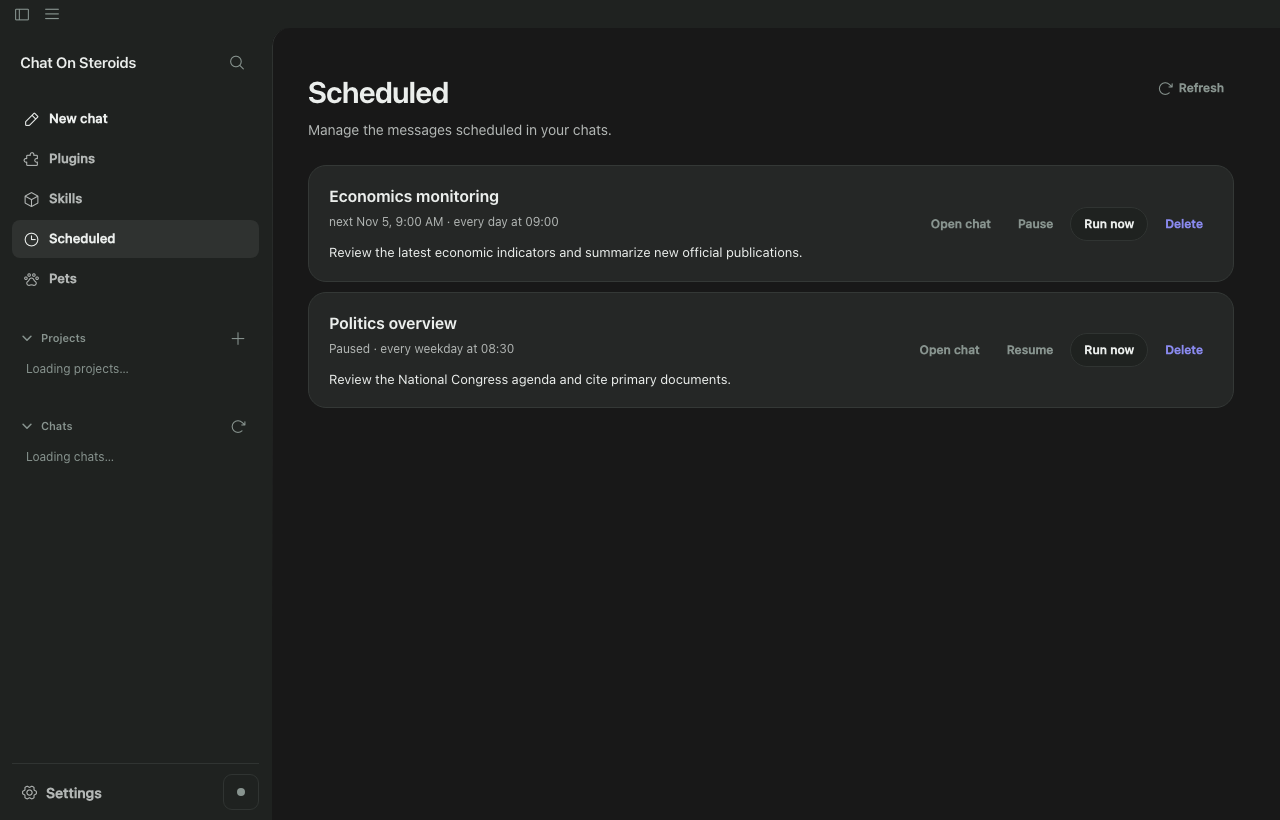
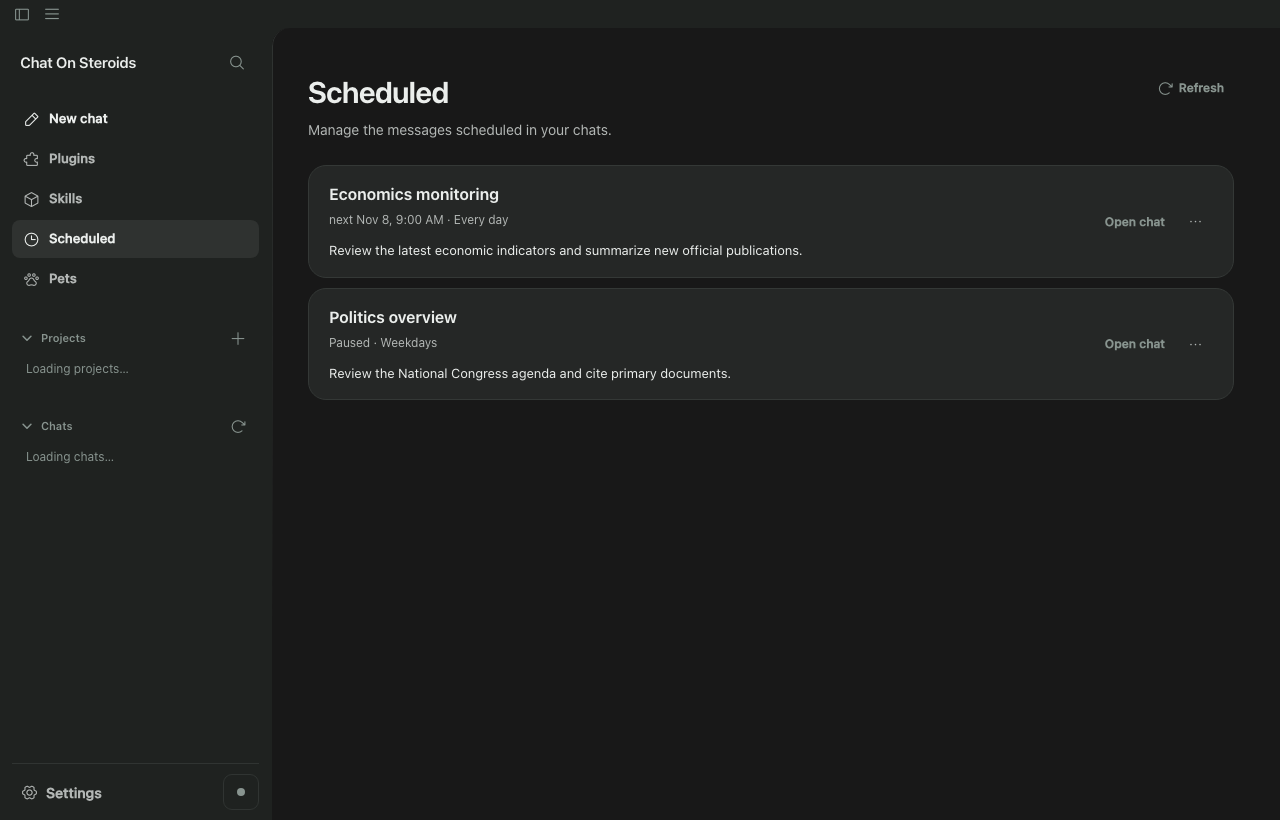
Polish Scheduled list compact actions and confirmation UX

diff --git a/src/renderer/scheduled.ts b/src/renderer/scheduled.ts
@@ -1,5 +1,6 @@
 import { currentLanguage, onLanguageChange, t, tn } from './i18n.js';
 import type { ScheduleRepeat, ScheduledRunListItem } from '../shared/schedule.js';
+import { initCardMenuDismissal } from './dom.js';
 
 type Reply<T> = { ok: true; data: T } | { ok: false; error: string };
 
@@ -41,16 +42,16 @@ function messagePreview(text: string): string {
 
 function repeatText(repeat: ScheduleRepeat): string {
   if (repeat.kind === 'hours') return repeat.every === 1 ? t('every hour') : tn('every {0} hour', 'every {0} hours', repeat.every);
-  const [hour, minute] = repeat.at.split(':').map(Number) as [number, number];
-  const at = new Date(2024, 0, 1, hour, minute).toLocaleTimeString(currentLanguage(), { hour: '2-digit', minute: '2-digit' });
-  if (repeat.kind === 'daily') return t('every day at {0}', [at]);
-  if (repeat.kind === 'weekdays') return t('every weekday at {0}', [at]);
+  // The next-run field already contains the clock time. Do not repeat it in recurrence.
+  if (repeat.kind === 'daily') return t('Every day');
+  if (repeat.kind === 'weekdays') return t('Weekdays');
   const weekday = new Intl.DateTimeFormat(currentLanguage(), { weekday: 'long' }).format(new Date(2024, 0, 7 + repeat.day));
-  return t('every {0} at {1}', [weekday, at]);
+  return `${t('Every week')} · ${weekday}`;
 }
 
 /** A projection of scheduled-runs; this view never stores tasks or sends messages itself. */
 export function initScheduled(controller: ScheduledController): { refresh: () => Promise<void> } {
+  initCardMenuDismissal();
   const list = document.getElementById('scheduledList')!;
   const status = document.getElementById('scheduledStatus')!;
   const description = document.getElementById('scheduledDescription')!;
@@ -84,25 +85,53 @@ export function initScheduled(controller: ScheduledController): { refresh: () =>
 
   type ActionFocus = { sessionId: string; action: string; row: number };
   const focusedAction = (): ActionFocus | null => {
-    const active = document.activeElement as HTMLButtonElement | null;
+    const active = document.activeElement as HTMLElement | null;
     if (!active?.dataset.scheduledAction || !active.dataset.sessionId || !list.contains(active)) return null;
     const row = [...list.querySelectorAll<HTMLElement>('.scheduled-index-row')].indexOf(active.closest<HTMLElement>('.scheduled-index-row')!);
     return { sessionId: active.dataset.sessionId, action: active.dataset.scheduledAction, row };
   };
   const restoreFocus = (saved: ActionFocus | null): void => {
     if (!saved) return;
-    const buttons = [...list.querySelectorAll<HTMLButtonElement>('button[data-scheduled-action]')];
-    const exact = buttons.find(node => node.dataset.sessionId === saved.sessionId && node.dataset.scheduledAction === saved.action);
+    const buttons = [...list.querySelectorAll<HTMLElement>('[data-scheduled-action]')];
+    // A closed overflow menu cannot receive focus; return to its visible summary instead.
+    const action = saved.action === 'open' ? 'open' : 'menu';
+    const exact = buttons.find(node => node.dataset.sessionId === saved.sessionId && node.dataset.scheduledAction === action);
     if (exact) { exact.focus(); return; }
     const rows = [...list.querySelectorAll<HTMLElement>('.scheduled-index-row')];
     const row = rows[Math.min(Math.max(saved.row, 0), rows.length - 1)];
-    (row?.querySelector<HTMLButtonElement>('button[data-scheduled-action]') ?? refreshButton).focus();
+    (row?.querySelector<HTMLElement>('[data-scheduled-action="open"]') ?? refreshButton).focus();
   };
   const applyDisabled = (): void => {
     for (const action of list.querySelectorAll<HTMLButtonElement>('button[data-scheduled-action]'))
       action.disabled = busy || action.dataset.scheduledDisabled === 'true';
     refreshButton.disabled = busy;
     refreshButton.setAttribute('aria-busy', String(refreshInFlight !== null));
+  };
+
+  const confirmDelete = (record: ScheduledRunListItem, returnFocus: HTMLElement): void => {
+    const dialog = element('dialog', 'plugin-dialog pet-delete-dialog');
+    const title = element('h2', '', t('Delete the schedule for {0}?', [record.sessionTitle || t('Untitled chat')]));
+    title.id = 'scheduledDeleteTitle';
+    dialog.setAttribute('aria-labelledby', title.id);
+    const head = element('div', 'plugin-dialog-head');
+    head.append(title);
+    const body = element('div', 'plugin-dialog-body');
+    const actions = element('div', 'pet-delete-actions');
+    const dismiss = (): void => {
+      if (typeof dialog.close === 'function') dialog.close();
+      else { dialog.remove(); if (returnFocus.isConnected) returnFocus.focus(); }
+    };
+    const cancel = button(t('Cancel'), dismiss, 'btn btn-solid pet-delete-cancel');
+    const remove = button(t('Delete'), () => {
+      dismiss();
+      if (returnFocus.isConnected) returnFocus.focus();
+      void mutate(() => controller.delete(record.sessionId));
+    }, 'btn plugin-destructive pet-delete-confirm');
+    actions.append(cancel, remove); body.append(actions); dialog.append(head, body);
+    dialog.addEventListener('close', () => { dialog.remove(); if (returnFocus.isConnected) returnFocus.focus(); });
+    document.body.append(dialog);
+    if (typeof dialog.showModal === 'function') dialog.showModal(); else dialog.setAttribute('open', '');
+    cancel.focus();
   };
 
   const render = (): void => {
@@ -140,17 +169,31 @@ export function initScheduled(controller: ScheduledController): { refresh: () =>
         node.dataset.scheduledDisabled = String(unavailable);
         return node;
       };
-      actions.append(
-        action(t('Open chat'), 'open', () => controller.openChat(record.sessionId)),
+      const menu = element('details', 'plugin-menu scheduled-index-menu');
+      const summary = element('summary');
+      summary.dataset.scheduledAction = 'menu';
+      summary.dataset.sessionId = record.sessionId;
+      summary.setAttribute('aria-label', t('Actions for {0}', [record.sessionTitle || t('Untitled chat')]));
+      const dots = element('i', 'ico ph ph-dots-three');
+      dots.setAttribute('aria-hidden', 'true');
+      summary.append(dots);
+      menu.addEventListener('keydown', event => {
+        // Keep focus on a visible control when Escape dismisses a keyboard-opened menu.
+        if (event.key === 'Escape' && menu.open) {
+          menu.open = false;
+          summary.focus();
+          event.stopPropagation();
+        }
+      });
+      const options = element('div', 'plugin-menu-actions');
+      options.append(
         action(record.paused ? t('Resume') : t('Pause'), 'pause', () => void mutate(() => controller.pause(record.sessionId, !record.paused))),
         action(t('Run now'), 'run-now', () => void mutate(() => controller.runNow(record.sessionId), queued => queued ? 'Queued' : 'Skipped'),
-          'btn btn-solid', record.retryDueAt !== undefined || record.deliveryBlock !== undefined),
-        action(t('Delete'), 'delete', () => {
-          if (window.confirm(t('Delete the schedule for {0}?', [record.sessionTitle || t('Untitled chat')]))) {
-            void mutate(() => controller.delete(record.sessionId));
-          }
-        }, 'btn scheduled-index-delete')
+          'btn', record.retryDueAt !== undefined || record.deliveryBlock !== undefined),
+        action(t('Delete'), 'delete', () => confirmDelete(record, summary), 'btn plugin-destructive')
       );
+      menu.append(summary, options);
+      actions.append(action(t('Open chat'), 'open', () => controller.openChat(record.sessionId)), menu);
       row.append(body, actions);
       list.append(row);
     }

diff --git a/test/renderer-scheduled.test.ts b/test/renderer-scheduled.test.ts
@@ -42,6 +42,11 @@ it('projects different chats from one schedule list and opens the selected chat'
   expect(rows[0]?.textContent).toContain('Economics monitoring');
   expect(rows[0]?.textContent).toContain('Review prices and publish a report');
   expect(rows[1]?.textContent).toContain('Paused');
+  expect(rows[0]?.querySelectorAll('.scheduled-index-actions > button')).toHaveLength(1);
+  expect(rows[0]?.querySelector('.scheduled-index-menu > summary')?.getAttribute('aria-label')).toBe('Actions for Economics monitoring');
+  expect(rows[0]?.querySelector('.scheduled-index-message')).toBeTruthy();
+  expect(rows[0]?.querySelector('.scheduled-index-meta')?.textContent).toContain('Every day');
+  expect(rows[0]?.querySelector('.scheduled-index-meta')?.textContent).not.toContain('every day at');
   (rows[1]?.querySelector('button') as HTMLButtonElement).click();
   expect(calls.openChat).toHaveBeenCalledExactlyOnceWith(idB);
 });
@@ -66,7 +71,7 @@ it('shows blocked delivery receipts and disables Run now until the outbox is def
     .find(button => button.textContent === 'Run now')?.disabled)).toBe(true);
 });
 
-it('reuses pause, runNow and delete actions for the exact original chat; deletion asks first', async () => {
+it('keeps only Open chat visible, uses the overflow menu, and confirms deletion in an accessible dialog', async () => {
   const { initScheduled } = await import('../src/renderer/scheduled.js');
   const calls = {
     list: vi.fn(async () => ok([schedule(idA)])),
@@ -75,9 +80,20 @@ it('reuses pause, runNow and delete actions for the exact original chat; deletio
     delete: vi.fn(async () => ok(true)),
     openChat: vi.fn()
   };
-  const confirm = vi.fn(() => false);
+  const confirm = vi.fn(() => true);
   dom.window.confirm = confirm;
   await initScheduled(calls).refresh();
+  const menu = document.querySelector<HTMLDetailsElement>('.scheduled-index-menu')!;
+  const summary = menu.querySelector('summary')!;
+  expect(menu.open).toBe(false);
+  summary.focus(); summary.click();
+  expect(menu.open).toBe(true);
+  const pauseInMenu = [...menu.querySelectorAll<HTMLButtonElement>('button')].find(node => node.textContent === 'Pause')!;
+  pauseInMenu.focus();
+  pauseInMenu.dispatchEvent(new dom.window.KeyboardEvent('keydown', { key: 'Escape', bubbles: true }));
+  expect(menu.open).toBe(false);
+  expect(document.activeElement).toBe(summary);
+  summary.click();
   const click = async (label: string) => {
     const button = [...document.querySelectorAll<HTMLButtonElement>('.scheduled-index-row button')]
       .find(node => node.textContent === label);
@@ -90,10 +106,19 @@ it('reuses pause, runNow and delete actions for the exact original chat; deletio
   await click('Run now');
   expect(calls.runNow).toHaveBeenCalledExactlyOnceWith(idA);
   await click('Delete');
-  expect(confirm).toHaveBeenCalledOnce();
+  expect(confirm).not.toHaveBeenCalled();
   expect(calls.delete).not.toHaveBeenCalled();
-  confirm.mockReturnValue(true);
+  const dialog = document.querySelector<HTMLDialogElement>('dialog[aria-labelledby="scheduledDeleteTitle"]')!;
+  expect(dialog).not.toBeNull();
+  expect(dialog.querySelector('h2')?.textContent).toContain('Economics monitoring');
+  expect(document.activeElement?.textContent).toBe('Cancel');
+  dialog.querySelector<HTMLButtonElement>('.pet-delete-cancel')!.click();
+  expect(document.querySelector('dialog[aria-labelledby="scheduledDeleteTitle"]')).toBeNull();
+  expect(document.activeElement).toBe(document.querySelector('.scheduled-index-menu > summary'));
+  expect(calls.delete).not.toHaveBeenCalled();
   await click('Delete');
+  document.querySelector<HTMLButtonElement>('.pet-delete-confirm')!.click();
+  await settle();
   expect(calls.delete).toHaveBeenCalledExactlyOnceWith(idA);
 });
 
@@ -295,7 +320,7 @@ it('keeps unchanged rows mounted, restores action focus after a changed row, and
   const runNow = [...original.querySelectorAll<HTMLButtonElement>('button')].find(node => node.textContent === 'Run now')!;
   runNow.focus(); runNow.click(); await settle();
   expect(document.querySelector('.scheduled-index-row')).toBe(original);
-  expect(document.activeElement).toBe(runNow);
+  expect((document.activeElement as HTMLElement).dataset.scheduledAction).toBe('menu');
   expect(document.getElementById('scheduledStatus')?.textContent).toBe('Queued');
   await view.refresh();
   expect(document.getElementById('scheduledStatus')?.textContent).toBe('Queued');
@@ -305,7 +330,8 @@ it('keeps unchanged rows mounted, restores action focus after a changed row, and
   const pause = [...original.querySelectorAll<HTMLButtonElement>('button')].find(node => node.textContent === 'Pause')!;
   pause.focus(); pause.click(); await settle();
   const resume = [...document.querySelectorAll<HTMLButtonElement>('.scheduled-index-row button')].find(node => node.textContent === 'Resume')!;
-  expect(document.activeElement).toBe(resume);
+  expect(resume).toBeDefined();
+  expect((document.activeElement as HTMLElement).dataset.scheduledAction).toBe('menu');
 });
 
 it('preserves keyboard focus when a background refresh changes a different schedule row', async () => {
@@ -329,7 +355,7 @@ it('preserves keyboard focus when a background refresh changes a different sched
   await view.refresh();
   const restored = document.activeElement as HTMLButtonElement;
   expect(restored.dataset.sessionId).toBe(idA);
-  expect(restored.dataset.scheduledAction).toBe('pause');
+  expect(restored.dataset.scheduledAction).toBe('menu');
 });
 
 it('moves focus to a surviving row or Refresh when a background refresh removes the focused row', async () => {
@@ -358,7 +384,7 @@ it('moves focus to a surviving row or Refresh when a background refresh removes 
   expect(document.activeElement).toBe(document.getElementById('scheduledRefresh'));
 });
 
-it('shows a missed run in the global list and formats recurrence time for the selected locale', async () => {
+it('shows missed occurrences with localized time and does not duplicate the recurrence clock', async () => {
   const { initScheduled } = await import('../src/renderer/scheduled.js');
   const { setLanguage } = await import('../src/renderer/i18n.js');
   const missedAt = new Date(2026, 10, 5, 9, 0).getTime();
@@ -375,11 +401,12 @@ it('shows a missed run in the global list and formats recurrence time for the se
     setLanguage('en');
     await view.refresh();
     expect(document.querySelector('.scheduled-index-meta')?.textContent).toContain('missed');
-    const englishTime = new Date(2024, 0, 1, 9, 0).toLocaleTimeString('en', { hour: '2-digit', minute: '2-digit' });
+    const englishTime = new Intl.DateTimeFormat('en', { month: 'short', day: 'numeric', hour: 'numeric', minute: '2-digit' }).format(missedAt);
     expect(document.querySelector('.scheduled-index-meta')?.textContent).toContain(englishTime);
+    expect(document.querySelector('.scheduled-index-meta')?.textContent).toContain('Every day');
 
     setLanguage('pt-PT');
-    const portugueseTime = new Date(2024, 0, 1, 9, 0).toLocaleTimeString('pt-PT', { hour: '2-digit', minute: '2-digit' });
+    const portugueseTime = new Intl.DateTimeFormat('pt-PT', { month: 'short', day: 'numeric', hour: 'numeric', minute: '2-digit' }).format(missedAt);
     expect(document.querySelector('.scheduled-index-meta')?.textContent).toContain(portugueseTime);
   } finally { setLanguage('en'); }
 });

diff --git a/src/renderer/scheduled.css b/src/renderer/scheduled.css
@@ -2,15 +2,17 @@
 .scheduled-index .plugin-page-head { display: flex; align-items: flex-start; justify-content: space-between; gap: 16px; }
 .scheduled-index .plugin-page-head > .btn { flex: 0 0 auto; }
 .scheduled-index-list { display: grid; gap: 10px; margin-top: 24px; }
-.scheduled-index-row { display: flex; justify-content: space-between; flex-wrap: wrap; align-items: center; gap: 20px; padding: 18px 20px; border: 1px solid var(--edge); border-radius: var(--r-lg); background: var(--card); }
+.scheduled-index-row { display: flex; justify-content: space-between; flex-wrap: wrap; align-items: center; gap: 20px; padding: 16px 20px; border: 1px solid var(--edge); border-radius: var(--r-lg); background: var(--card); }
 .scheduled-index-body { flex: 1 1 280px; min-width: 0; }
 .scheduled-index-row h2 { margin: 0; font-size: calc(16px * var(--text-scale, 1)); font-weight: 650; }
 .scheduled-index-row h2, .scheduled-index-message { text-align: start; }
 .scheduled-index-meta { margin: 5px 0 0; color: var(--soft); font-size: calc(12px * var(--text-scale, 1)); line-height: 1.5; }
 .scheduled-index-message { margin: 12px 0 0; color: var(--ink); font-size: calc(13px * var(--text-scale, 1)); line-height: 1.5; overflow-wrap: anywhere; display: -webkit-box; -webkit-box-orient: vertical; -webkit-line-clamp: 2; overflow: hidden; }
-.scheduled-index-actions { display: flex; flex-wrap: wrap; align-items: center; gap: 7px; }
+.scheduled-index-actions { position: relative; display: flex; align-items: center; gap: 7px; padding-inline-end: 38px; }
 .scheduled-index-actions .btn { font-size: calc(12px * var(--text-scale, 1)); }
-.scheduled-index-delete { color: var(--red); }
+.scheduled-index-actions .scheduled-index-menu { top: calc(50% - 17px); right: 0; }
+.scheduled-index-actions .scheduled-index-menu .plugin-menu-actions { min-width: 166px; }
+.scheduled-index-actions .scheduled-index-menu .plugin-menu-actions .btn { display: flex; }
 .scheduled-index-empty { display: grid; justify-items: center; text-align: center; gap: 12px; padding: 66px 24px; border: 1px dashed var(--edge); border-radius: var(--r-lg); color: var(--soft); }
 .scheduled-index-empty > .ico { --ico: 34px; }
 .scheduled-index-empty h2 { margin: 0; color: var(--ink); font-size: calc(18px * var(--text-scale, 1)); }
@@ -19,5 +21,5 @@
 .scheduled-index-status.is-error { color: var(--red); }
 @media (max-width: 800px) {
   .scheduled-index-row { align-items: flex-start; }
-  .scheduled-index-actions { width: 100%; }
+  .scheduled-index-actions { margin-inline-start: auto; }
 }
